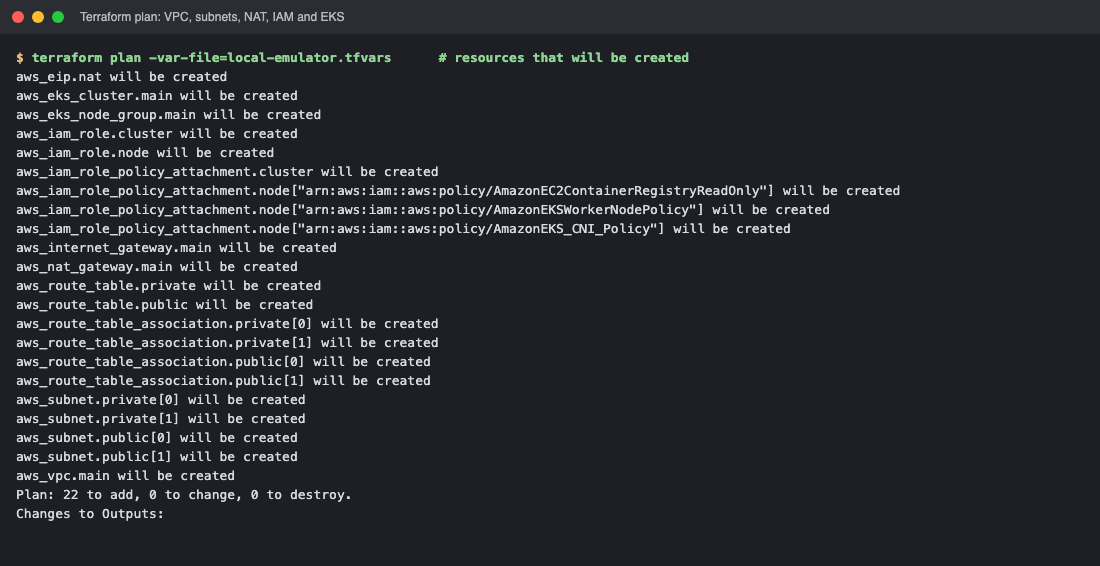
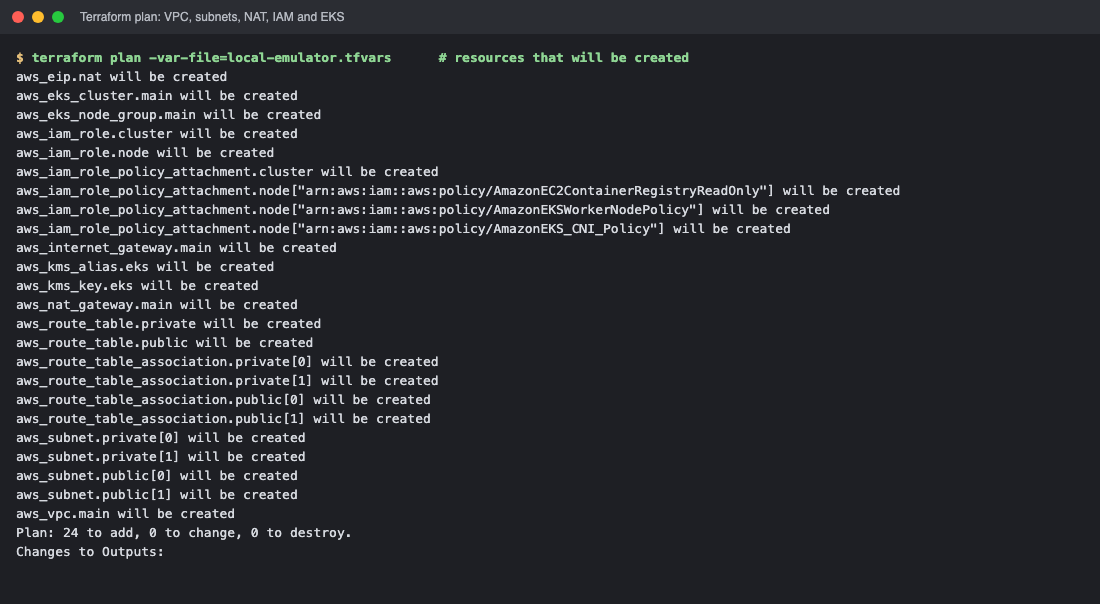
docs: refresh terraform evidence for the 24-resource stack with KMS encryption

diff --git a/terraform/README.md b/terraform/README.md
@@ -1,7 +1,7 @@
 # Terraform - AWS VPC + EKS
 
-Creates (22 resources): VPC, 2 public + 2 private subnets in two AZs, Internet gateway, NAT gateway, route tables,
-IAM roles for the cluster and the nodes, an EKS cluster and a managed node group.
+Creates (24 resources): VPC, 2 public + 2 private subnets in two AZs, Internet gateway, NAT gateway, route tables,
+IAM roles for the cluster and the nodes, a KMS key (encrypts Kubernetes Secrets), an EKS cluster and a managed node group.
 
 ```bash
 cp terraform.tfvars.example terraform.tfvars    # edit; the real file is git-ignored
